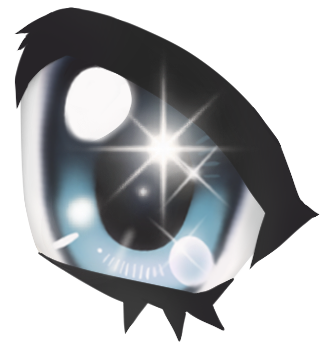
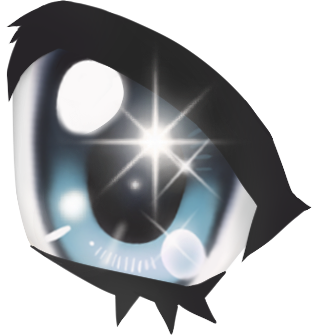
Update eye artwork and add face-sized eyes with independent blink animation

diff --git a/frame/app.js b/frame/app.js
@@ -1,5 +1,5 @@
-import {EyeTracker} from './eye-tracker.js?v=14';
-import {browserLaunchURL,mayAutoLaunch} from './browser-launch.js?v=14';
+import {EyeTracker} from './eye-tracker.js?v=15';
+import {browserLaunchURL,mayAutoLaunch} from './browser-launch.js?v=15';
 import {detectSamsungPhone,cameraConstraints,cameraZoom} from './camera-settings.js?v=11';
 const samsungPhone=detectSamsungPhone(navigator);
 const $=id=>document.getElementById(id);
@@ -27,8 +27,8 @@ async function loadEyeSprites(){
  if(eyeSprites)return;
  if(eyeSpritesLoading)return eyeSpritesLoading;
  eyeSpritesLoading=(async()=>{
-  const images=await Promise.all(['left-1','right-1','left-2','right-2'].map(async name=>{
-   const image=new Image();image.src='eyes-'+name+'.png?v=14';
+  const images=await Promise.all(['left-1','right-1','left-2','right-2','left-3','right-3'].map(async name=>{
+   const image=new Image();image.src='eyes-'+name+'.png?v=15';
    await bounded(image.decode(),15000,'눈 이미지 로딩 실패');return image;
   }));
   const textures=images.map(image=>{
@@ -60,14 +60,19 @@ function setupGL(){
  gl.attachShader(program,shader(gl.VERTEX_SHADER,'attribute vec2 p; varying vec2 uv; void main(){uv=(p+1.0)*0.5;gl_Position=vec4(p,0,1);}'));
  gl.attachShader(program,shader(gl.FRAGMENT_SHADER,`precision mediump float;
  varying vec2 uv;uniform sampler2D camera;uniform sampler2D frame;uniform vec2 crop;uniform float mirror;uniform float angle;uniform float monochrome;uniform float sky;uniform vec3 lensColor;uniform vec4 eyeA;uniform vec4 eyeB;
- uniform sampler2D eyeLeft;uniform sampler2D eyeRight;uniform vec2 eyeAxis;
+ uniform sampler2D eyeLeft;uniform sampler2D eyeRight;uniform sampler2D eyeLeftClosed;uniform sampler2D eyeRightClosed;uniform vec2 eyeAxis;uniform vec2 eyeBlink;
  vec3 trackedLens(vec3 base,vec4 eye,float side){
   if(eye.z<=0.)return base;
   vec2 axis=normalize(eyeAxis),delta=(uv-eye.xy)*vec2(1.,1280./720.);
   vec2 q=vec2(dot(delta,axis),dot(delta,vec2(-axis.y,axis.x)))/vec2(eye.z,eye.w*1280./720.);
   if(max(abs(q.x),abs(q.y))>=1.)return base;
   vec2 tex=q*.5+.5;
-  vec4 sampleEye=side<.5?texture2D(eyeLeft,tex):texture2D(eyeRight,tex);
+  vec4 openEye=side<.5?texture2D(eyeLeft,tex):texture2D(eyeRight,tex);
+  // Closed artwork sits at the bottom of its PNG; align its lid with the tracked eye center.
+  vec2 closedTex=tex-vec2(0.,.25);
+  vec4 closedEye=side<.5?texture2D(eyeLeftClosed,closedTex):texture2D(eyeRightClosed,closedTex);
+  if(closedTex.y<0.||closedTex.y>1.)closedEye=vec4(0.);
+  vec4 sampleEye=mix(openEye,closedEye,side<.5?eyeBlink.x:eyeBlink.y);
   vec3 pixel=sampleEye.rgb/max(sampleEye.a,.001);
   float luminance=dot(pixel,vec3(.299,.587,.114));
   // Tint only the blue iris; black lashes and white sparkles keep their original colors.
@@ -105,7 +110,7 @@ function setupGL(){
  function texture(unit,name){const t=gl.createTexture();gl.activeTexture(gl.TEXTURE0+unit);gl.bindTexture(gl.TEXTURE_2D,t);for(const param of [gl.TEXTURE_MIN_FILTER,gl.TEXTURE_MAG_FILTER])gl.texParameteri(gl.TEXTURE_2D,param,gl.LINEAR);for(const param of [gl.TEXTURE_WRAP_S,gl.TEXTURE_WRAP_T])gl.texParameteri(gl.TEXTURE_2D,param,gl.CLAMP_TO_EDGE);gl.uniform1i(gl.getUniformLocation(program,name),unit);return t;}
  cameraTexture=texture(0,'camera');frameTexture=texture(1,'frame');
  // Transparent placeholders make all sampler units complete before the first lens tap.
- for(const [unit,name] of [[2,'eyeLeft'],[3,'eyeRight']]){texture(unit,name);gl.texImage2D(gl.TEXTURE_2D,0,gl.RGBA,1,1,0,gl.RGBA,gl.UNSIGNED_BYTE,new Uint8Array(4));}
+ for(const [unit,name] of [[2,'eyeLeft'],[3,'eyeRight'],[4,'eyeLeftClosed'],[5,'eyeRightClosed']]){texture(unit,name);gl.texImage2D(gl.TEXTURE_2D,0,gl.RGBA,1,1,0,gl.RGBA,gl.UNSIGNED_BYTE,new Uint8Array(4));}
 }
 function controls(){const blocked=!ready||busy||!!recorder||photoPending;$('shutter').disabled=blocked;$('flip').disabled=blocked;$('color').disabled=blocked;$('lens-toggle').disabled=blocked;}
 function draw(){
@@ -117,9 +122,10 @@ function draw(){
  gl.uniform4f(gl.getUniformLocation(program,'eyeA'),...(eyes?.[0].slice(0,4)||[0,0,0,0]));
  gl.uniform4f(gl.getUniformLocation(program,'eyeB'),...(eyes?.[1].slice(0,4)||[0,0,0,0]));
  gl.uniform2f(gl.getUniformLocation(program,'eyeAxis'),...(eyes?.[0].slice(4,6)||[1,0]));
+ gl.uniform2f(gl.getUniformLocation(program,'eyeBlink'),eyes?.[0][6]||0,eyes?.[1][6]||0);
  if(eyeSprites){
   const offset=(Math.floor(performance.now()/320)%2)*2;
-  for(const [unit,index] of [[2,offset],[3,offset+1]]){gl.activeTexture(gl.TEXTURE0+unit);gl.bindTexture(gl.TEXTURE_2D,eyeSprites[index]);}
+  for(const [unit,index] of [[2,offset],[3,offset+1],[4,4],[5,5]]){gl.activeTexture(gl.TEXTURE0+unit);gl.bindTexture(gl.TEXTURE_2D,eyeSprites[index]);}
  }
  gl.uniform2f(gl.getUniformLocation(program,'crop'),Math.min(1,target/aspect),Math.min(1,aspect/target));gl.uniform1f(gl.getUniformLocation(program,'mirror'),mirror?1:0);gl.uniform1f(gl.getUniformLocation(program,'angle'),hue*Math.PI/180);gl.uniform1f(gl.getUniformLocation(program,'monochrome'),colorIndex===4?1:0);gl.uniform1f(gl.getUniformLocation(program,'sky'),colorIndex===1?1:0);gl.uniform3f(gl.getUniformLocation(program,'lensColor'),...lensColors[colorIndex]);gl.drawArrays(gl.TRIANGLES,0,6);
 }

diff --git a/frame/eye-tracker.js b/frame/eye-tracker.js
@@ -1,19 +1,21 @@
 // Invert exactly the camera crop and selfie mirror used by the frame shader.
-export function projectEyes(eyes,aspect,mirror){
+export function projectEyes(eyes,aspect,mirror,faceSpan=null,blink=[false,false]){
  const target=(720*.85)/(1280*.60),cx=Math.min(1,target/aspect),cy=Math.min(1,aspect/target);
  const point=p=>[.5+((mirror?1-p.x:p.x)-.5)*.85/cx,.5+(.5-p.y)*.60/cy];
- const centers=eyes.map(pair=>{
+ const centers=eyes.map((pair,index)=>{
   const a=point(pair[0]),b=point(pair[1]);
-  return {x:(a[0]+b[0])/2,y:(a[1]+b[1])/2,width:Math.hypot(a[0]-b[0],(a[1]-b[1])*1280/720)};
+  return {x:(a[0]+b[0])/2,y:(a[1]+b[1])/2,blink:blink[index]?1:0,width:Math.hypot(a[0]-b[0],(a[1]-b[1])*1280/720)};
  }).sort((a,b)=>a.x-b.x);
  const dx=centers[1].x-centers[0].x,dy=(centers[1].y-centers[0].y)*1280/720;
  const distance=Math.hypot(dx,dy),axis=[dx/Math.max(distance,.001),dy/Math.max(distance,.001)];
+ const span=faceSpan?.map(point);
+ const faceWidth=span?Math.hypot(span[1][0]-span[0][0],(span[1][1]-span[0][1])*1280/720):distance*2.3;
  return centers.map((eye,i)=>{
-  // Move each eye out by 6% of eye spacing; cap size so large character eyes do not overlap.
-  const radius=Math.min(.22,distance*.46,Math.max(.015,eye.width*.98));
+  // Each eye spans 36% of the tracked face width, independent of natural eye size.
+  const radius=Math.max(.015,faceWidth*.18);
   // The drawn pupils sit inward of each PNG center; compensate before adding the outward offset.
   const shift=(i===0?-1:1)*(distance*.06+radius*.16);
-  return [eye.x+axis[0]*shift,eye.y+axis[1]*shift*720/1280,radius,radius*(350/320)*720/1280,...axis];
+  return [eye.x+axis[0]*shift,eye.y+axis[1]*shift*720/1280,radius,radius*(335/318)*720/1280,...axis,eye.blink];
  });
 }
 
@@ -23,7 +25,7 @@ export class EyeTracker{
   this.stop();this.enabled=true;this.onState('loading');
   try{
    if(!globalThis.Worker||!globalThis.OffscreenCanvas||!globalThis.createImageBitmap)throw Error();
-   const worker=this.worker=new Worker(new URL('./eye-worker.js?v=14',import.meta.url));
+   const worker=this.worker=new Worker(new URL('./eye-worker.js?v=15',import.meta.url));
    this.timer=setTimeout(()=>this.fail(),30000);
    worker.onerror=()=>{if(this.worker===worker)this.fail();};
    worker.onmessage=({data})=>{
@@ -31,7 +33,7 @@ export class EyeTracker{
     clearTimeout(this.timer);
     if(data.type==='ready'){this.loaded=true;this.onState('on');}
     else if(data.type==='eyes'){
-     this.pending=false;this.points=data.eyes;this.received=performance.now();
+     this.pending=false;this.points=data.eyes;this.faceSpan=data.faceSpan;this.blink=data.blink;this.received=performance.now();
      if(!data.eyes)this.smoothed=null;
     }else this.fail();
    };
@@ -56,7 +58,7 @@ export class EyeTracker{
  }
  positions(aspect,mirror){
   if(!this.enabled||!this.points||performance.now()-this.received>300){this.smoothed=null;return null;}
-  const next=projectEyes(this.points,aspect,mirror);
+  const next=projectEyes(this.points,aspect,mirror,this.faceSpan,this.blink);
   this.smoothed=next.map((eye,i)=>eye.map((v,j)=>this.smoothed?v*.65+this.smoothed[i][j]*.35:v));
   return this.smoothed;
  }

diff --git a/frame/eye-worker.js b/frame/eye-worker.js
@@ -2,6 +2,7 @@
 self.exports={};
 importScripts('./vendor/mediapipe/vision_bundle.js');
 let detector,faceDetector,files;
+let blink=[false,false];
 self.onmessage=async({data})=>{
  try{
   if(data.type==='init'){
@@ -10,12 +11,20 @@ self.onmessage=async({data})=>{
    detector=await FaceLandmarker.createFromOptions(files,{
     canvas:new OffscreenCanvas(1,1),
     baseOptions:{modelAssetPath:new URL('./vendor/mediapipe/face_landmarker.task',self.location.href).href,delegate:'CPU'},
-    runningMode:'VIDEO',numFaces:1,minFaceDetectionConfidence:.35,minFacePresenceConfidence:.35,minTrackingConfidence:.4
+    runningMode:'VIDEO',numFaces:1,outputFaceBlendshapes:true,minFaceDetectionConfidence:.35,minFacePresenceConfidence:.35,minTrackingConfidence:.4
    });
    self.postMessage({type:'ready'});
   }else if(data.type==='frame'){
    try{
-    const face=detector.detectForVideo(data.bitmap,data.time).faceLandmarks[0];
+    const result=detector.detectForVideo(data.bitmap,data.time);
+    const face=result.faceLandmarks[0];
+    let faceSpan=face?[face[234],face[454]]:null;
+    const scores=result.faceBlendshapes[0]?.categories||[];
+    // Match the corner-pair order below: subject right eye, then subject left eye.
+    blink=['eyeBlinkRight','eyeBlinkLeft'].map((name,i)=>{
+     const score=scores.find(s=>s.categoryName===name)?.score||0;
+     return face?score>(blink[i] ? .32 : .5):false;
+    });
     // Stylized faces may fail the dense mesh even when a face and both eyes are clear.
     let fallbackEyes=null;
     if(!face){
@@ -27,6 +36,8 @@ self.onmessage=async({data})=>{
      const best=detections.sort((a,b)=>b.categories[0].score-a.categories[0].score)[0];
      if(best?.keypoints?.length>=2){
       const [a,b]=best.keypoints,dx=b.x-a.x,dy=b.y-a.y;
+      const center={x:(a.x+b.x)/2,y:(a.y+b.y)/2},half=best.boundingBox.width/data.bitmap.width/2;
+      faceSpan=[{x:center.x-half,y:center.y},{x:center.x+half,y:center.y}];
       // The coarse detector only supplies centers: estimate eye width from their separation.
       fallbackEyes=[a,b].map(c=>[{x:c.x-dx*.24,y:c.y-dy*.24},{x:c.x+dx*.24,y:c.y+dy*.24}]);
      }
@@ -40,7 +51,8 @@ self.onmessage=async({data})=>{
      const distance=Math.hypot((a.x-b.x)*aspect,a.y-b.y);
      if(distance<.025||distance>.65||eyes.flat().some(p=>!Number.isFinite(p.x)||!Number.isFinite(p.y)||p.x<0||p.x>1||p.y<0||p.y>1))eyes=null;
     }
-    self.postMessage({type:'eyes',eyes});
+    if(!eyes)blink=[false,false];
+    self.postMessage({type:'eyes',eyes,faceSpan,blink});
    }finally{data.bitmap.close();}
   }
  }catch{self.postMessage({type:'error'});}

diff --git a/frame/index.html b/frame/index.html
@@ -22,4 +22,4 @@
 </nav></section></main>
 <dialog id="result" aria-label="촬영 결과"><button id="close" aria-label="닫기"><svg><use href="#i-close"/></svg></button><img id="photo" alt="프레임 촬영 결과" hidden><video id="clip" controls playsinline loop hidden></video><div class="save-buttons"><a id="save" role="link" aria-disabled="true" aria-label="사진 저장" title="저장"><svg><use href="#i-save"/></svg></a><a id="gif" role="link" hidden aria-disabled="true" aria-label="GIF 저장" title="GIF 저장"><svg><use href="#i-gif"/></svg></a><span class="capture-tip">촬영 버튼 꾹 누르면<br>녹화 가능!</span></div><p id="save-note" hidden role="status"></p></dialog>
 <video id="camera" muted playsinline autoplay class="source"></video><video id="frame" src="frame1.mp4?v=10" muted playsinline loop preload="auto" class="source"></video>
-<script type="module" src="app.js?v=14"></script></body></html>
+<script type="module" src="app.js?v=15"></script></body></html>

diff --git a/frame/browser-launch.js b/frame/browser-launch.js
@@ -1,6 +1,6 @@
 // Browser launches are best-effort: host apps may require an OS confirmation.
 export function browserLaunchURL(userAgent,pageURL){
- const target=new URL('./?v=14',pageURL),ua=userAgent.toLowerCase();
+ const target=new URL('./?v=15',pageURL),ua=userAgent.toLowerCase();
  if(ua.includes('kakaotalk'))return 'kakaotalk://web/openExternal?url='+encodeURIComponent(target.href);
  if(ua.includes('android')){
   const fallback=new URL(target);fallback.searchParams.set('manual','1');
